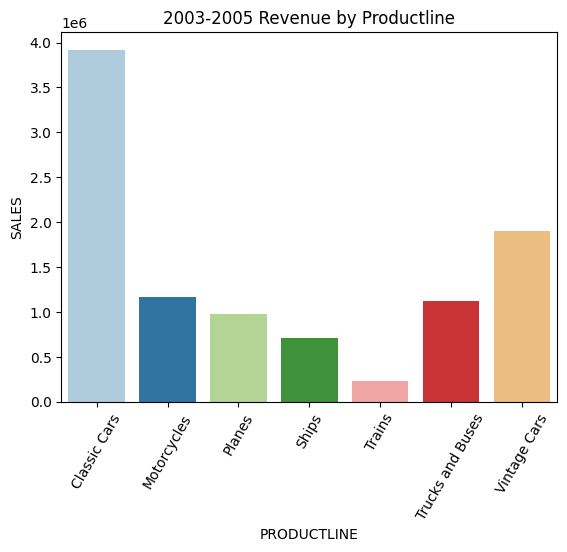
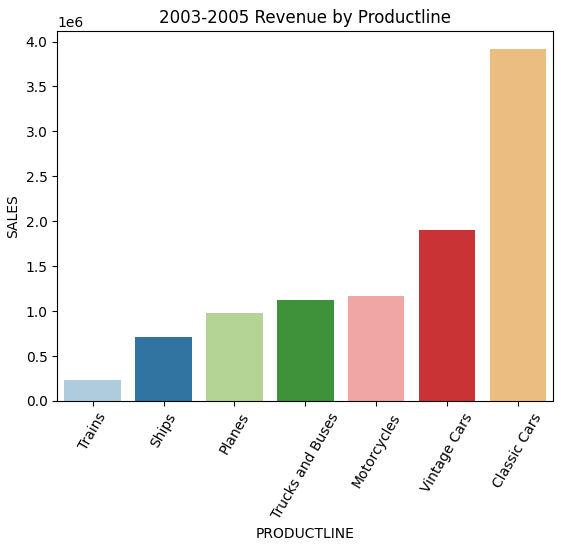
sss

Changed region(s): [[0.0, 0.0, 1.0, 0.9599], [0.4545, 0.898, 0.6364, 0.9909]]

diff --git a/src/components/PerformanceOverview.jsx b/src/components/PerformanceOverview.jsx
@@ -7,6 +7,8 @@ import qty from "../qty.png";
 import totalSale from "../totalSales.PNG";
 import totalQty from "../totalQty.PNG";
 import salesByCity from "../saleByCity.png";
+import a from "../1.PNG";
+import b from "../2.PNG";
 
 const PerformanceOverview = () => {
   return (
@@ -95,7 +97,14 @@ const PerformanceOverview = () => {
                 </ul>
               </li>
             </ol>
-
+            <div className="col-12 ">
+              <h2>Total Sale By Product Line (Ascending Order)</h2>
+              <img src={totalSale} alt="totalChart" width="90%" />
+            </div>
+            <div className="col-12 ">
+              <h2>2003-2005 Q'ty By Product Line</h2>
+              <img src={totalQty} alt="totalChart" width="90%" />
+            </div>
             <h2>Recommendations</h2>
             <ul>
               <li>
@@ -109,6 +118,14 @@ const PerformanceOverview = () => {
                 understand the factors driving their success.
               </li>
             </ul>
+            <div className="col-12 ">
+              <h2>Total Sale By Product Line (Ascending Order)</h2>
+              <img src={a} alt="totalChart" width="90%" />
+            </div>
+            <div className="col-12 ">
+              <h2>2003-2005 Q'ty By Product Line</h2>
+              <img src={b} alt="totalChart" width="90%" />
+            </div>
             <div>
               <img src={chart} alt="chart" height="800px" width="800px" />
               <p>
@@ -229,18 +246,16 @@ const PerformanceOverview = () => {
                   width="600px"
                 />
               </div>
-              <div className="col-6">
+              <motion.div
+                initial={{ opacity: 0, y: -20 }}
+                animate={{ opacity: 1, y: 0 }}
+                transition={{ delay: 0.6 }}
+                className="col-6"
+              >
                 <h2>2003-2005 Q'ty Product Line</h2>
                 <img src={qty} alt="QtyChart" height="600px" width="600px" />
-              </div>
-              <div className="col-12 ">
-                <h2>Total Sale By Product Line (Ascending Order)</h2>
-                <img src={totalSale} alt="totalChart" width="90%" />
-              </div>
-              <div className="col-12 ">
-                <h2>2003-2005 Q'ty By Product Line</h2>
-                <img src={totalQty} alt="totalChart" width="90%" />
-              </div>
+              </motion.div>
+
               <div className="col-6 ">
                 <h2>Sales By City</h2>
                 <img src={salesByCity} alt="salesByCityChart" width="90%" />
